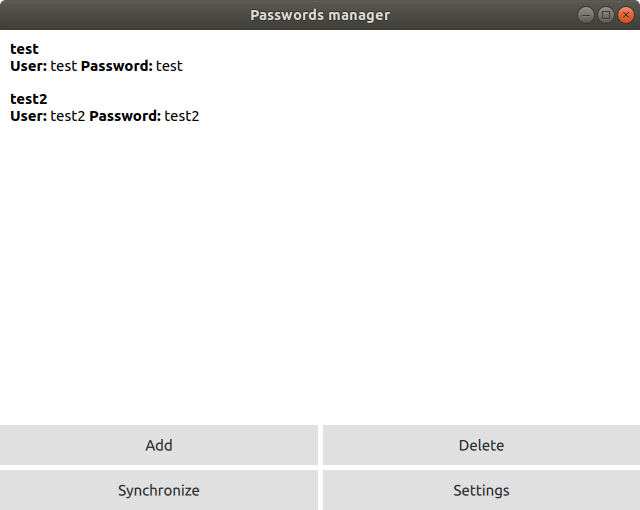
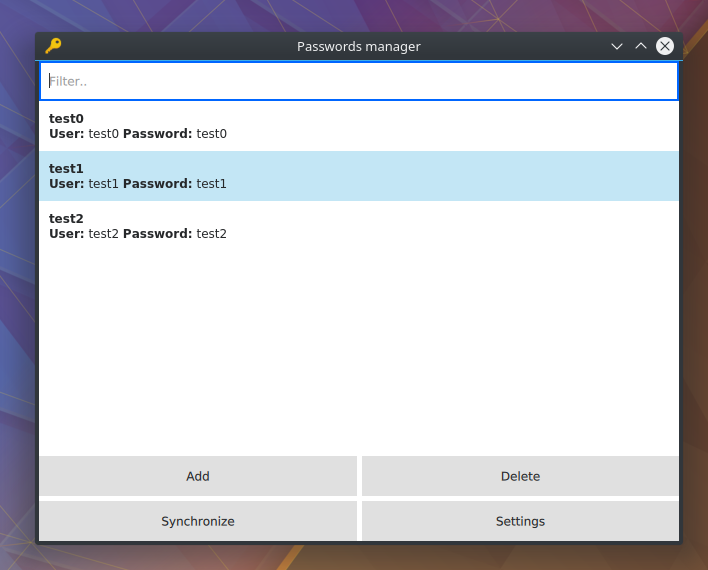
update

diff --git a/main.qml b/main.qml
@@ -175,7 +175,8 @@ Item {
         anchors.fill: parent
         property var oPasswordsListViewModel
         property var oServersListViewModel;
-        property int iEditedRecordIndex: -2
+        property int iEditedRecordIndex
+        property bool bPasswordsListIsNewItem: false
         property string sName: ""
         property string sUser: ""
         property string sPassword: ""
@@ -321,17 +322,34 @@ Item {
             Item {
                 id: passwordsListViewRectangle
                 //color: "transparent"
-                anchors.fill: parent
 
+                TextField {
+                    id: passwordsListViewPageFilterTextField
+
+                    anchors {
+                        right: parent.right
+                        top: parent.top
+                        left: parent.left
+                    }
+
+                    selectByMouse: true
+                    placeholderText: "Filter.."
+
+                    onTextChanged: {
+                        //oPasswordListSortFilterProxyModel.fnSetFilterFixedString(text);
+                        oPasswordListSortFilterProxyModel.setFilterFixedString(text);
+                    }
+                }
 
                 ScrollView {
                     id: passwordsListViewScrollView
                     anchors {
                         right: parent.right
-                        top: parent.top
+                        top: passwordsListViewPageFilterTextField.bottom
                         left: parent.left
                         bottom: passwordsListViewPageBottomColumnLayout.top
                     }
+
                     ListView {
                         id: passwordsListView
                         width: parent.width
@@ -339,9 +357,14 @@ Item {
                         model: stackView.oPasswordsListViewModel
                         focus: true
                         highlight: Rectangle {
+                            opacity: 0.5
                             color: "skyblue"
                         }
                         highlightFollowsCurrentItem: true
+                        onCurrentIndexChanged: {
+                            console.log('onCurrentIndexChanged');
+                            stackView.iEditedRecordIndex = currentIndex;
+                        }
                         delegate: Item {
                             id: passwordsListDelegate
 
@@ -377,11 +400,12 @@ Item {
                                     stackView.sUser = model.user;
                                     stackView.sPassword = model.password;
                                     stackView.sAdditional = model.additional;
-                                    stackView.iEditedRecordIndex = model.index;
+                                    stackView.iEditedRecordIndex = model.sourceIndex;
+                                    stackView.bPasswordsListIsNewItem = false;
 
                                     stackView.push(passwordEditPage);
                                 }
-                            }
+                            }                            
                         }
                     }
 
@@ -406,7 +430,8 @@ Item {
                             Layout.fillWidth: true
 
                             onClicked: {
-                                stackView.iEditedRecordIndex = -1;
+                                //stackView.iEditedRecordIndex = -1;
+                                stackView.bPasswordsListIsNewItem = true;
                                 stackView.sName = "";
                                 stackView.sUser = "";
                                 stackView.sPassword = "";
@@ -626,11 +651,10 @@ Item {
                         Layout.minimumWidth: parent.width/2
                         text: "Save"
                         onClicked: {
-                            if (stackView.iEditedRecordIndex == -1) {
+                            if (stackView.bPasswordsListIsNewItem) {
                                 stackView.iEditedRecordIndex = oPasswordListModel.fnAddRow();
-                            }
-
-                            if (stackView.iEditedRecordIndex > -1) {
+                            } else {
+                                console.log('stackView.iEditedRecordIndex', stackView.iEditedRecordIndex);
                                 var oIndex = oPasswordListModel.index(stackView.iEditedRecordIndex, 0);
                                 oPasswordListModel.setData(oIndex, nameTextField.text, PasswordListModel.NameRole);
                                 oPasswordListModel.setData(oIndex, userTextField.text, PasswordListModel.UserRole);

diff --git a/passwordlistmodel.cpp b/passwordlistmodel.cpp
@@ -20,9 +20,10 @@ QHash<int,QByteArray> PasswordListModel::roleNames() const
         { NameRole, "name" },
         { UserRole, "user" },
         { PasswordRole, "password" },
-        { DeletedRole, "deleted" },
+        { IsDeletedRole, "isDeleted" },
         { AdditionalRole, "additional" },
-        { IDRole, "id" }
+        { IDRole, "id" },
+        { SourceIndexRole, "sourceIndex" }
     };
 }
 
@@ -44,12 +45,14 @@ QVariant PasswordListModel::data(const QModelIndex &oIndex, int iRole) const
         return oJsonObject["user"].toString();
     } if (iRole == PasswordRole) {
         return oJsonObject["password"].toString();
-    } if (iRole == DeletedRole) {
-        return oJsonObject["deleted"].toBool();
+    } if (iRole == IsDeletedRole) {
+        return oJsonObject["isDeleted"].toBool();
     } if (iRole == AdditionalRole) {
         return oJsonObject["additional"].toString();
     } if (iRole == IDRole) {
         return oJsonObject["id"].toString();
+    } if (iRole == SourceIndexRole) {
+        return oIndex.row();
     } else
         return QVariant();
 }
@@ -153,13 +156,14 @@ bool PasswordListModel::insertRows(int iPosition, int iRows, const QModelIndex &
 
 bool PasswordListModel::removeRows(int iPosition, int iRows, const QModelIndex &oParent)
 {
-    qDebug() << __FUNCTION__;
+    qDebug() << __FUNCTION__ << "iPosition:" << iPosition << "iRows:" << iRows << oParent;
     beginRemoveRows(QModelIndex(), iPosition, iPosition+iRows-1);
 
     for (int iRow = iPosition; iRow < iPosition+iRows; ++iRow) {
         //this->poJsonArray->removeAt(iPosition);
         QJsonObject oJsonObject = this->poJsonArray->at(iRow).toObject();
-        oJsonObject["deleted"] = true;
+        qDebug() << oJsonObject;
+        oJsonObject["isDeleted"] = true;
         this->poJsonArray->replace(iRow, QJsonValue(oJsonObject));
     }
 
@@ -312,11 +316,13 @@ bool PasswordListModel::fnFileExists()
 
 void PasswordListModel::fnRemoveRow(int iIndex)
 {
+    qDebug() << __FUNCTION__ << iIndex;
     this->removeRows(iIndex, 1);
 }
 
 QVariant PasswordListModel::fnAddRow()
 {
+    qDebug() << __FUNCTION__;
     this->insertRows(this->poJsonArray->size(), 1);
 
     return this->poJsonArray->size()-1;
@@ -324,11 +330,13 @@ QVariant PasswordListModel::fnAddRow()
 
 QVariant PasswordListModel::fnSize()
 {
+    qDebug() << __FUNCTION__;
     return this->poJsonArray->size();
 }
 
 QVariant PasswordListModel::fnToByteArray()
 {
+    qDebug() << __FUNCTION__;
     QJsonDocument oJsonDocument(*this->poJsonArray);
 
     Encrypter oEncrypter;
@@ -341,6 +349,7 @@ QVariant PasswordListModel::fnToByteArray()
 
 QVariant PasswordListModel::fnFromByteArray(QVariant oByteArray, QVariant iSyncMethod)
 {
+    qDebug() << __FUNCTION__;
     beginResetModel();
 
     Encrypter oEncrypter;
@@ -362,12 +371,21 @@ QVariant PasswordListModel::fnFromByteArray(QVariant oByteArray, QVariant iSyncM
         for (int iRemoteIndex=0; iRemoteIndex<oRemoteJsonArray.size(); iRemoteIndex++) {
             QJsonObject oRemoteJsonObject = oRemoteJsonArray[iRemoteIndex].toObject();
 
+            if (oRemoteJsonObject["isDeleted"].toBool()) {
+                continue;
+            }
+
             bool bFound = false;
 
             if (this->poJsonArray->size()>0) {
                 for (int iLocalIndex=0; iLocalIndex<this->poJsonArray->size(); iLocalIndex++) {
                     qDebug() << oRemoteJsonObject << (*this->poJsonArray)[iLocalIndex].toObject() << (oRemoteJsonObject["id"] != (*this->poJsonArray)[iLocalIndex].toObject()["id"]);
                     QJsonObject oLocalJsonObject = (*this->poJsonArray)[iLocalIndex].toObject();
+
+                    if (oLocalJsonObject["isDeleted"].toBool()) {
+                        continue;
+                    }
+
                     if (oRemoteJsonObject["id"] == oLocalJsonObject["id"]) {
                         bFound = true;
                         if (iSyncMethod.toInt() == 1) {

diff --git a/passwordlistsortfilterproxymodel.cpp b/passwordlistsortfilterproxymodel.cpp
@@ -2,16 +2,18 @@
 #include "passwordlistmodel.h"
 #include <QDebug>
 
-PasswordListSortFilterProxyModel::PasswordListSortFilterProxyModel()
-{
-
-}
-
 bool PasswordListSortFilterProxyModel::filterAcceptsRow(int iSourceRow, const QModelIndex &oSourceParent) const
 {
-    qDebug() << __FUNCTION__;
+    qDebug() << __FUNCTION__ << this->filterRegExp();
 
-    QModelIndex iIndex = sourceModel()->index(iSourceRow, 0, oSourceParent);
+    QModelIndex iIndex = this->sourceModel()->index(iSourceRow, 0, oSourceParent);
 
-    return !sourceModel()->data(iIndex, PasswordListModel::DeletedRole).toBool();
+    return !this->sourceModel()->data(iIndex, PasswordListModel::IsDeletedRole).toBool()
+            && (
+                this->sourceModel()->data(iIndex, PasswordListModel::NameRole).toString().contains(this->filterRegExp())
+                || this->sourceModel()->data(iIndex, PasswordListModel::UserRole).toString().contains(this->filterRegExp())
+                || this->sourceModel()->data(iIndex, PasswordListModel::PasswordRole).toString().contains(this->filterRegExp())
+                || this->sourceModel()->data(iIndex, PasswordListModel::AdditionalRole).toString().contains(this->filterRegExp())
+            );
 }
+

diff --git a/passwordlistmodel.h b/passwordlistmodel.h
@@ -26,9 +26,10 @@ public:
         NameRole = Qt::UserRole + 1,
         UserRole,
         PasswordRole,
-        DeletedRole,
+        IsDeletedRole,
         AdditionalRole,
-        IDRole
+        IDRole,
+        SourceIndexRole
     };
 
     explicit PasswordListModel(QObject *poParent = nullptr);

diff --git a/passwordlistsortfilterproxymodel.h b/passwordlistsortfilterproxymodel.h
@@ -6,11 +6,9 @@
 
 class PasswordListSortFilterProxyModel : public QSortFilterProxyModel
 {
+
 public:
-    PasswordListSortFilterProxyModel();
-
     bool filterAcceptsRow(int iSourceRow, const QModelIndex &oSourceParent) const override;
-
 };
 
 #endif // PASSWORDLISTSORTFILTERPROXYMODEL_H
